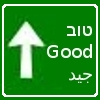
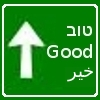
from home

Changed region(s): [[0.66, 0.66, 0.93, 0.84]]

diff --git a/tnk1/ktuv/mjly_hkl/sgulot.css b/tnk1/ktuv/mjly_hkl/sgulot.css
@@ -26,8 +26,8 @@ body { font-family: "Liberation Sans"; }
 	.mqorot { font-family: 'Arial'; font-size: 12px; }
 	.hqblot { font-family: 'Simple CLM'; font-size: 12px; }
 	.ecot   { font-size: 14px; }
-	.subtitle { border-bottom: none #fff 1px; font-size: 8px; text-align:right; margin:0; padding:0; line-height:100%; font-weight:normal; background:#fefefe; font-style:italic}
-	.imgsubtitle { width:20px; height:20px; float:right; margin:-1.2mm 0mm -2mm -2mm; }
+	.subtitle { border-bottom: none #fff 1px; font-size: 8px; text-align:right; margin:0; padding:0 0 0 1em; line-height:100%; font-weight:normal; background:#fefefe; font-style:italic}
+	.imgsubtitle { width:20px; height:20px; float:right; margin:-1.2mm 0mm -2mm -2mm;  }
 	.long .cell { 
 		padding: 2mm;
 		background-repeat: no-repeat;
@@ -110,5 +110,5 @@ p.future, span.future, .future {	font-size:6px; background-color:#ccc; display:n
 
 .autowidth1 {display:none;}
 
-a {text-decoration:none}
+a {text-decoration:none; color:black}
 

diff --git a/tnk1/ktuv/mjly_hkl/sgulot_library.php b/tnk1/ktuv/mjly_hkl/sgulot_library.php
@@ -39,8 +39,8 @@ $BIG_FIELDS = array(
 $BIG_FIELDS_ORDER = array_keys($BIG_FIELDS);
 
 $SMALL_FIELDS = array(
-		'mcudot' => array("subtitle"=>"מצודות", "size"=>16, "icon"=>"", "include"=>true),
-		'tirgum' => array("subtitle"=>"סגולות", "size"=>16, "icon"=>"", "include"=>true),
+		'mcudot' => array("subtitle"=>"מצודות", "size"=>16, "icon"=>"castle-brown.png", "include"=>true),
+		'tirgum' => array("subtitle"=>"סגולות", "size"=>16, "icon"=>"roadsign100.jpg", "include"=>true),
 );
 $SMALL_FIELDS_ORDER = array_keys($SMALL_FIELDS);
 
@@ -178,7 +178,7 @@ function html_for_long_cell($data) {
 	return (!isempty($data["content"])? "
 		<div class='cell $data[mainclass] $data[class]'>
 			".($data['icon']? "<img class='imgsubtitle' src='$data[icon]' />": "")."
-			<h2 class='subtitle'>$data[subtitle]</h2>
+			<h2 class='subtitle'>&nbsp;&nbsp;&nbsp;&nbsp;$data[subtitle]</h2>
 			".autowidth("$data[content]")."
 		</div>": "");
 }
